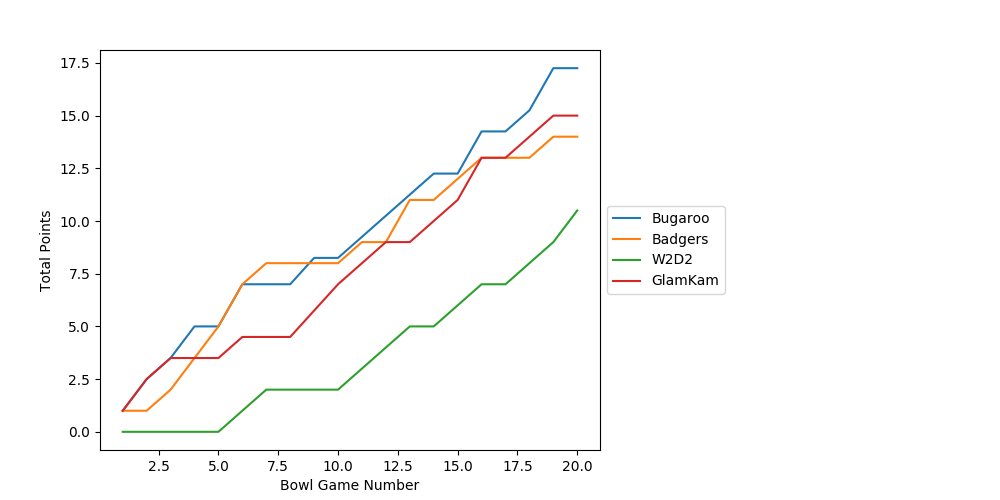
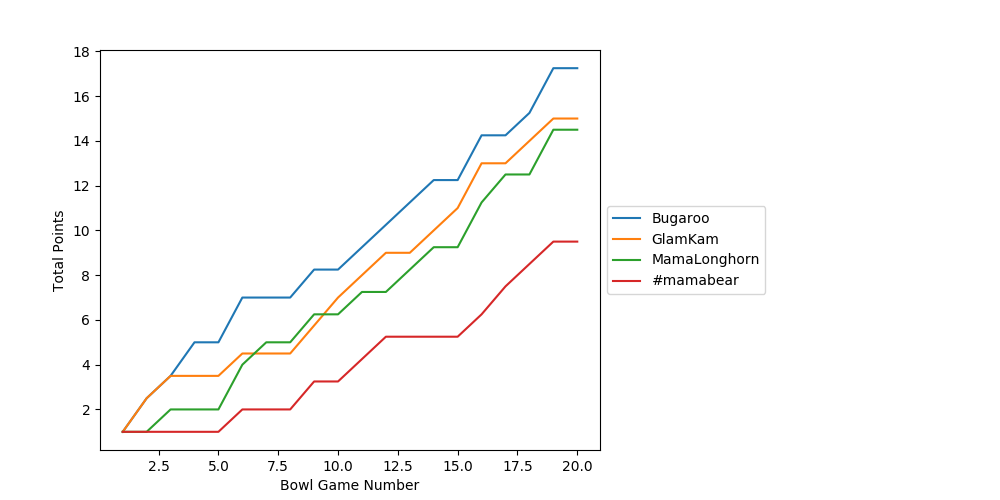
Dec. 29th update 1

diff --git a/bowl_pool/2022-2023/rankings.html b/bowl_pool/2022-2023/rankings.html
@@ -364,14 +364,14 @@ ul.auto-toc {
 
 
 <div class="line-block">
-<div class="line"><em>Last updated:  2022-12-29 23:56:30</em></div>
+<div class="line"><em>Last updated:  2022-12-29 23:59:40</em></div>
 <div class="line"><em>Last bowl scored:  Alamo Bowl (Texas vs. Washington)</em></div>
 </div>
 <div class="line-block">
 <div class="line">1. <strong>Bugaroo 17.25</strong></div>
 <div class="line">2. <strong>GlamKam 15.0</strong></div>
-<div class="line">3. MamaLonghorn 14.5</div>
-<div class="line">4. <strong>Badgers 14.0</strong></div>
+<div class="line">3. <strong>MamaLonghorn 14.5</strong></div>
+<div class="line">4. Badgers 14.0</div>
 <div class="line">4. Sure Thing Shipley 14.0</div>
 <div class="line">6. bopper 13.25</div>
 <div class="line">7. Amanda 13.0</div>
@@ -381,9 +381,9 @@ ul.auto-toc {
 <div class="line">10. Bad News Bibby 11.25</div>
 <div class="line">12. Gigi 10.75</div>
 <div class="line">13. Bear-in-Law 10.5</div>
-<div class="line">13. <strong>W2D2 10.5</strong></div>
+<div class="line">13. W2D2 10.5</div>
 <div class="line">15. blue orred 10.0</div>
-<div class="line">16. #mamabear 9.5</div>
+<div class="line">16. <strong>#mamabear 9.5</strong></div>
 </div>
 </div>
 </body>

diff --git a/bowl_pool/2022-2023/index.html b/bowl_pool/2022-2023/index.html
@@ -365,7 +365,7 @@ ul.auto-toc {
 
 <p><strong>2022-2023 Bowl Pool</strong></p>
 <div class="line-block">
-<div class="line"><em>Last updated:  2022-12-29 23:56:30</em></div>
+<div class="line"><em>Last updated:  2022-12-29 23:59:40</em></div>
 <div class="line"><em>Last bowl scored:  Alamo Bowl (Texas vs. Washington)</em></div>
 </div>
 <ul class="simple">
